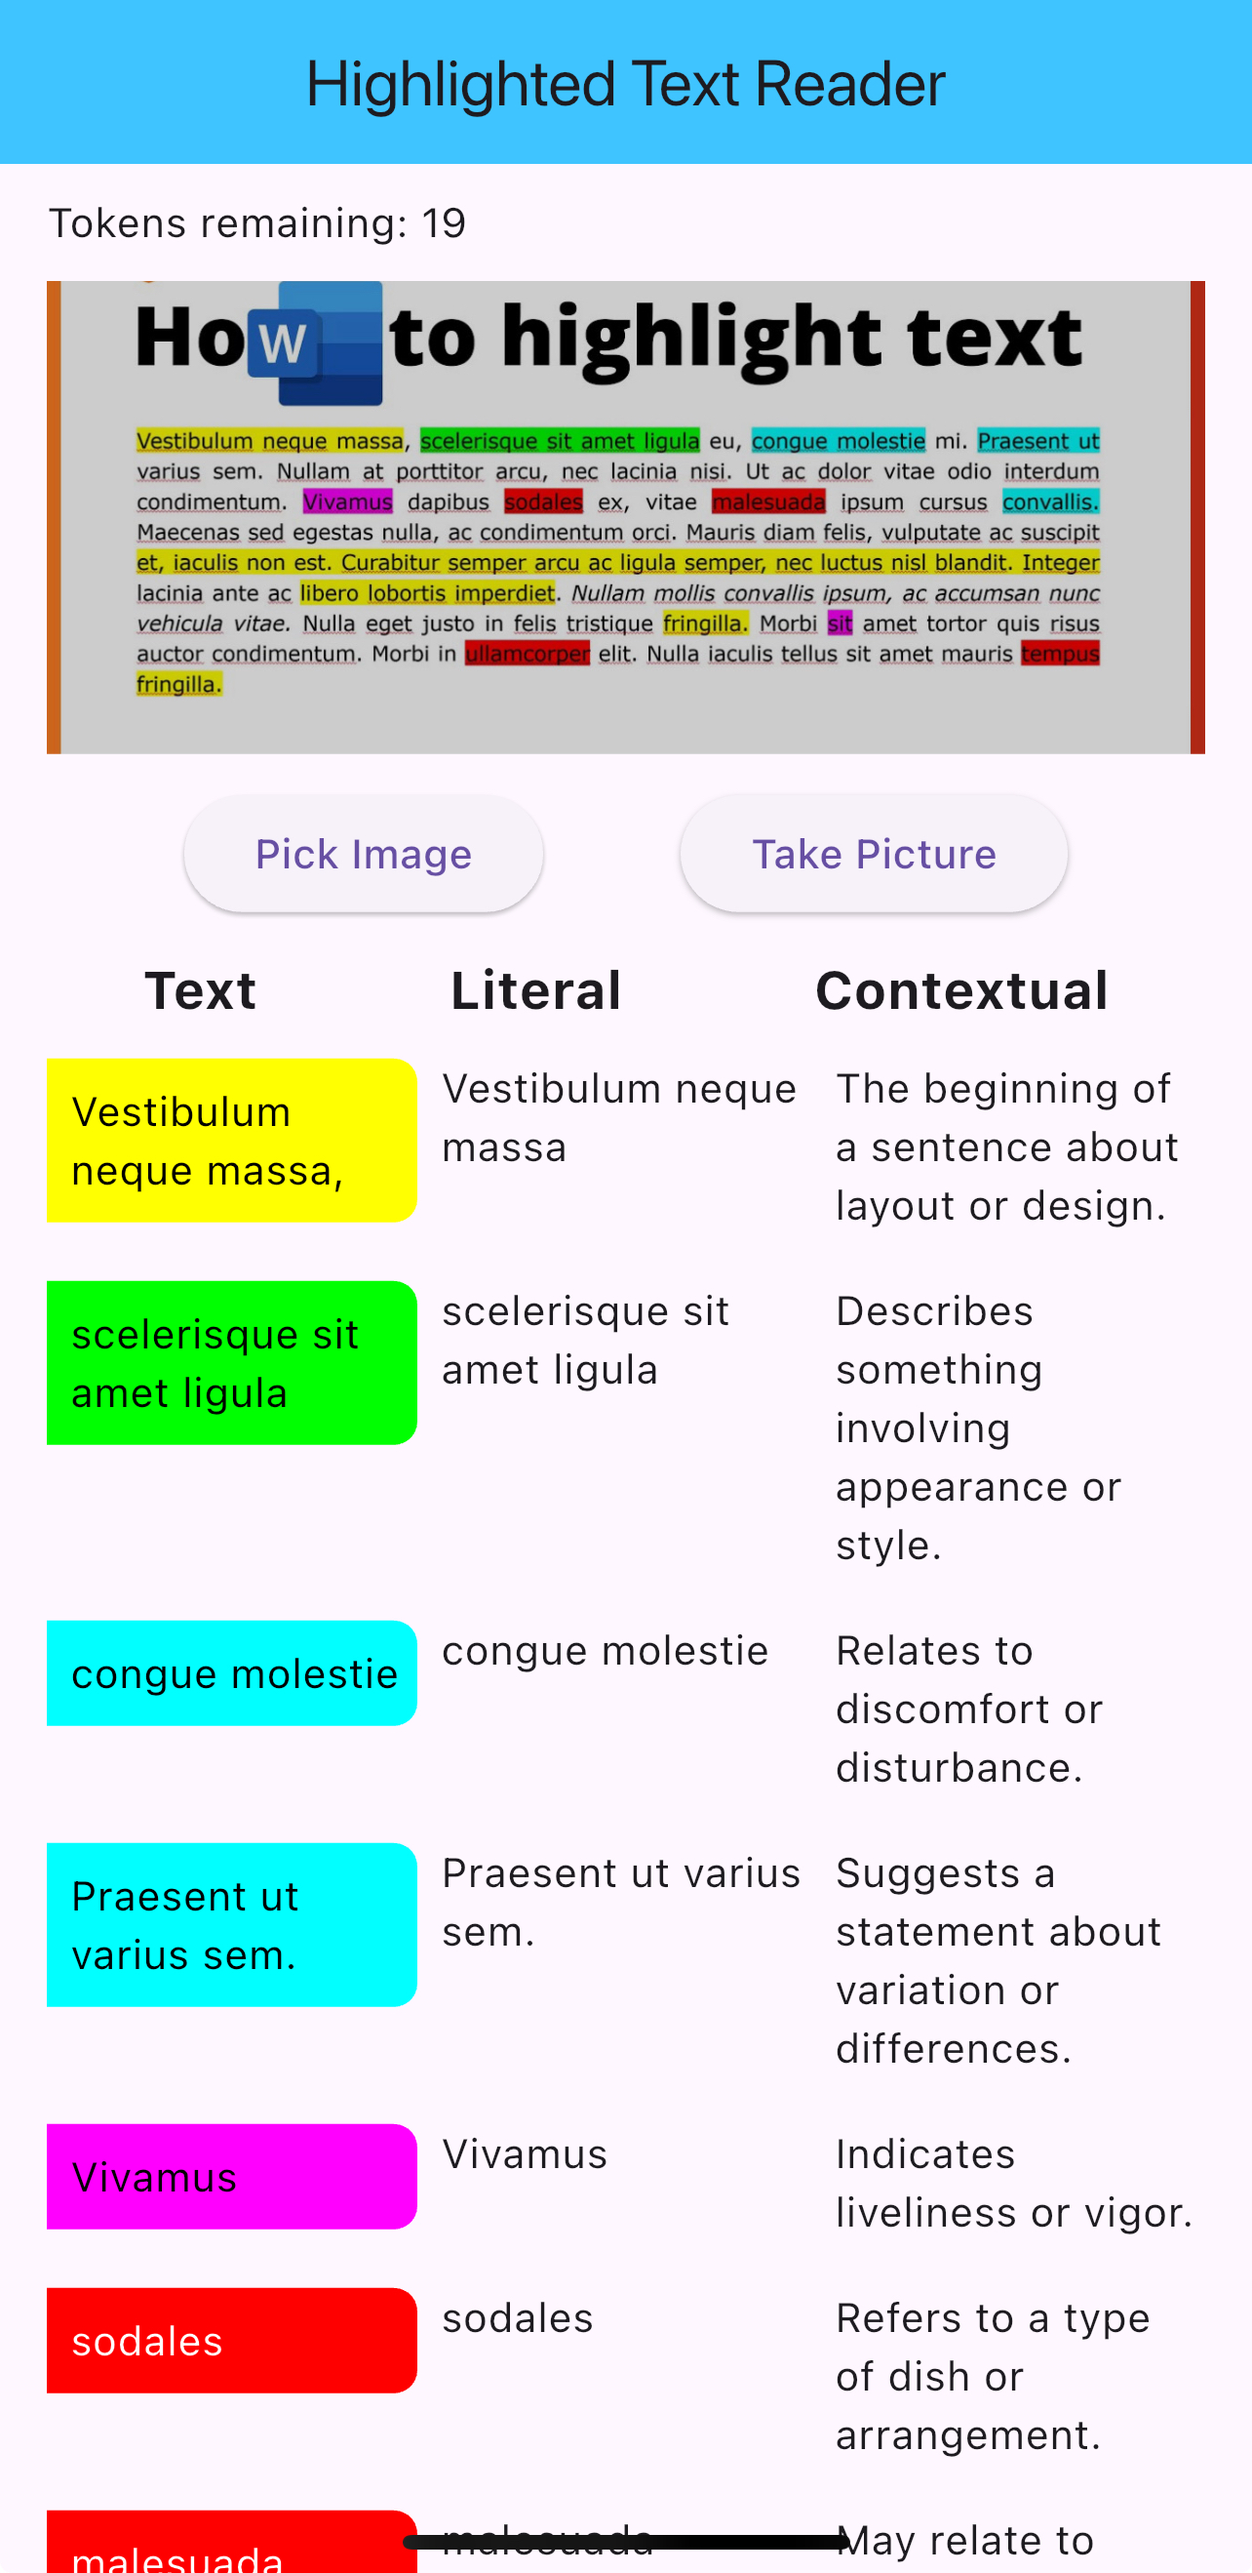
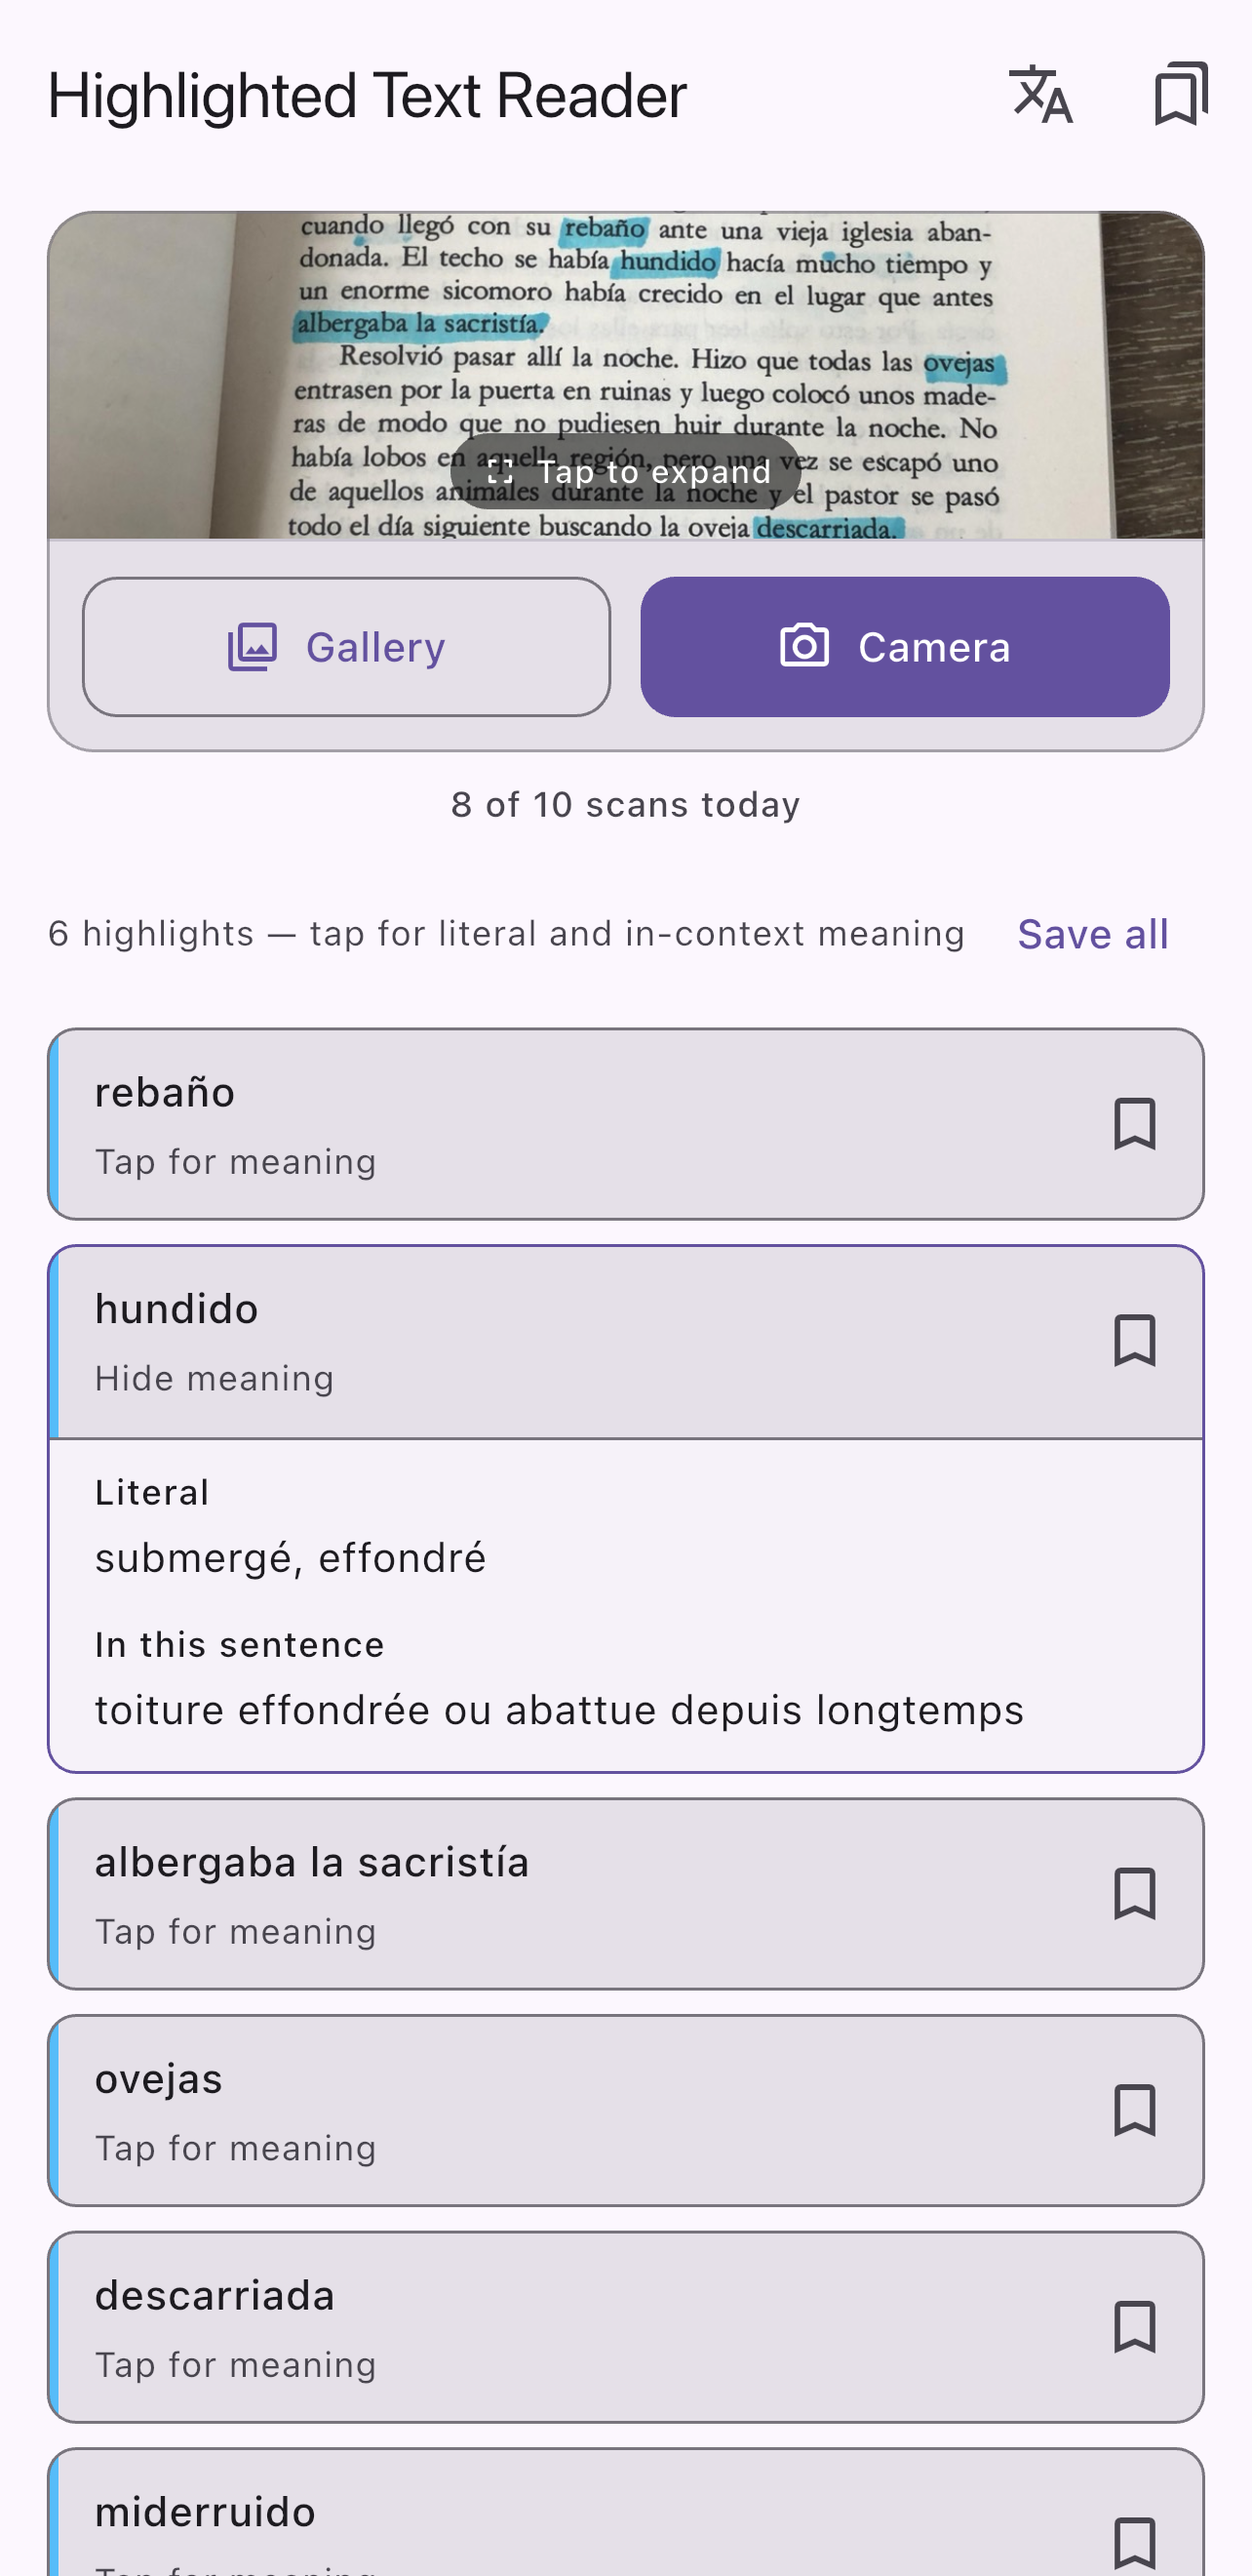
Persist onboarding completion and skip it on later launches.
Remember when a user finishes or skips onboarding so the intro does not appear every cold start.

diff --git a/test/app_router_test.dart b/test/app_router_test.dart
@@ -1,0 +1,113 @@
+import 'package:flutter/material.dart';
+import 'package:flutter_test/flutter_test.dart';
+import 'package:go_router/go_router.dart';
+import 'package:highlighted_text_reader/core/constants/app_constants.dart';
+import 'package:highlighted_text_reader/data/services/onboarding_store.dart';
+import 'package:highlighted_text_reader/main.dart';
+import 'package:shared_preferences/shared_preferences.dart';
+
+void main() {
+  late OnboardingStore store;
+
+  setUp(() {
+    SharedPreferences.setMockInitialValues({});
+    store = OnboardingStore();
+  });
+
+  GoRouter routerForTest({required bool onboardingCompleted}) {
+    return GoRouter(
+      initialLocation: onboardingCompleted
+          ? AppConstants.homeRoute
+          : AppConstants.onboardRoute,
+      redirect: (context, state) => redirectIfOnboardingCompleted(
+        matchedLocation: state.matchedLocation,
+        completedAtLaunch: onboardingCompleted,
+        store: store,
+      ),
+      routes: [
+        GoRoute(
+          path: AppConstants.onboardRoute,
+          builder: (context, state) => const Scaffold(body: Text('Onboarding')),
+        ),
+        GoRoute(
+          path: AppConstants.homeRoute,
+          builder: (context, state) => const Scaffold(body: Text('Home')),
+        ),
+      ],
+    );
+  }
+
+  test('does not redirect onboarding when it is still incomplete', () async {
+    expect(
+      await redirectIfOnboardingCompleted(
+        matchedLocation: AppConstants.onboardRoute,
+        completedAtLaunch: false,
+        store: store,
+      ),
+      isNull,
+    );
+  });
+
+  test('redirects onboarding to home when completed at launch', () async {
+    expect(
+      await redirectIfOnboardingCompleted(
+        matchedLocation: AppConstants.onboardRoute,
+        completedAtLaunch: true,
+        store: store,
+      ),
+      AppConstants.homeRoute,
+    );
+  });
+
+  test('redirects onboarding to home after the flag is written', () async {
+    await store.writeCompleted();
+
+    expect(
+      await redirectIfOnboardingCompleted(
+        matchedLocation: AppConstants.onboardRoute,
+        completedAtLaunch: false,
+        store: store,
+      ),
+      AppConstants.homeRoute,
+    );
+  });
+
+  test('does not redirect home', () async {
+    await store.writeCompleted();
+
+    expect(
+      await redirectIfOnboardingCompleted(
+        matchedLocation: AppConstants.homeRoute,
+        completedAtLaunch: true,
+        store: store,
+      ),
+      isNull,
+    );
+  });
+
+  testWidgets('starts on home when onboarding is already completed',
+      (tester) async {
+    await store.writeCompleted();
+    final router = routerForTest(onboardingCompleted: await store.read());
+
+    await tester.pumpWidget(MaterialApp.router(routerConfig: router));
+    await tester.pumpAndSettle();
+
+    expect(find.text('Home'), findsOneWidget);
+    expect(find.text('Onboarding'), findsNothing);
+  });
+
+  testWidgets('redirects /on-board to home after onboarding is completed',
+      (tester) async {
+    await store.writeCompleted();
+    final router = routerForTest(onboardingCompleted: true);
+
+    await tester.pumpWidget(MaterialApp.router(routerConfig: router));
+    await tester.pumpAndSettle();
+    router.go(AppConstants.onboardRoute);
+    await tester.pumpAndSettle();
+
+    expect(find.text('Home'), findsOneWidget);
+    expect(find.text('Onboarding'), findsNothing);
+  });
+}

diff --git a/lib/main.dart b/lib/main.dart
@@ -3,32 +3,71 @@ import 'package:go_router/go_router.dart';
 
 import 'core/constants/app_constants.dart';
 import 'core/firebase/firebase_bootstrap.dart';
+import 'data/services/onboarding_store.dart';
 import 'home_screen.dart';
 import 'presentation/pages/onboarding/onboarding_page.dart';
+import 'presentation/pages/saved/saved_highlights_page.dart';
 
 Future<void> main() async {
   WidgetsFlutterBinding.ensureInitialized();
   await FirebaseBootstrap.initialize();
-  runApp(const MyApp());
+  final onboardingStore = OnboardingStore();
+  final onboardingCompleted = await onboardingStore.read();
+  runApp(MyApp(
+    onboardingCompleted: onboardingCompleted,
+    onboardingStore: onboardingStore,
+  ));
+}
+
+Future<String?> redirectIfOnboardingCompleted({
+  required String matchedLocation,
+  required bool completedAtLaunch,
+  required OnboardingStore store,
+}) async {
+  if (matchedLocation != AppConstants.onboardRoute) {
+    return null;
+  }
+  if (completedAtLaunch || await store.read()) {
+    return AppConstants.homeRoute;
+  }
+  return null;
 }
 
 class MyApp extends StatelessWidget {
-  const MyApp({super.key});
+  MyApp({
+    super.key,
+    this.onboardingCompleted = false,
+    OnboardingStore? onboardingStore,
+  }) : onboardingStore = onboardingStore ?? OnboardingStore();
+
+  final bool onboardingCompleted;
+  final OnboardingStore onboardingStore;
 
   @override
   Widget build(BuildContext context) {
     final analyticsObserver = FirebaseBootstrap.analyticsObserver;
     final GoRouter router = GoRouter(
-      initialLocation: AppConstants.onboardRoute,
+      initialLocation: onboardingCompleted
+          ? AppConstants.homeRoute
+          : AppConstants.onboardRoute,
       observers: analyticsObserver == null ? [] : [analyticsObserver],
+      redirect: (context, state) => redirectIfOnboardingCompleted(
+        matchedLocation: state.matchedLocation,
+        completedAtLaunch: onboardingCompleted,
+        store: onboardingStore,
+      ),
       routes: [
         GoRoute(
           path: AppConstants.onboardRoute,
-          builder: (context, state) => const OnboardingPage(),
+          builder: (context, state) => OnboardingPage(store: onboardingStore),
         ),
         GoRoute(
           path: AppConstants.homeRoute,
           builder: (context, state) => const HomeScreen(),
+        ),
+        GoRoute(
+          path: AppConstants.savedRoute,
+          builder: (context, state) => const SavedHighlightsPage(),
         ),
       ],
     );

diff --git a/test/presentation/pages/onboarding/onboarding_page_test.dart b/test/presentation/pages/onboarding/onboarding_page_test.dart
@@ -1,0 +1,60 @@
+import 'package:flutter/material.dart';
+import 'package:flutter_test/flutter_test.dart';
+import 'package:go_router/go_router.dart';
+import 'package:highlighted_text_reader/core/constants/app_constants.dart';
+import 'package:highlighted_text_reader/data/services/onboarding_store.dart';
+import 'package:highlighted_text_reader/presentation/pages/onboarding/onboarding_page.dart';
+import 'package:shared_preferences/shared_preferences.dart';
+
+void main() {
+  late OnboardingStore store;
+
+  setUp(() {
+    SharedPreferences.setMockInitialValues({});
+    store = OnboardingStore();
+  });
+
+  Future<void> pumpOnboarding(WidgetTester tester) async {
+    final router = GoRouter(
+      initialLocation: AppConstants.onboardRoute,
+      routes: [
+        GoRoute(
+          path: AppConstants.onboardRoute,
+          builder: (context, state) => OnboardingPage(store: store),
+        ),
+        GoRoute(
+          path: AppConstants.homeRoute,
+          builder: (context, state) => const Scaffold(body: Text('Home')),
+        ),
+      ],
+    );
+
+    await tester.pumpWidget(MaterialApp.router(routerConfig: router));
+    await tester.pump();
+    await tester.pump(const Duration(milliseconds: 50));
+  }
+
+  testWidgets('Skip writes the completed flag and goes home', (tester) async {
+    await pumpOnboarding(tester);
+
+    await tester.tap(find.text('Skip'));
+    await tester.pumpAndSettle();
+
+    expect(await store.read(), isTrue);
+    expect(find.text('Home'), findsOneWidget);
+  });
+
+  testWidgets('Done writes the completed flag and goes home', (tester) async {
+    await pumpOnboarding(tester);
+
+    await tester.tap(find.byIcon(Icons.arrow_forward));
+    await tester.pumpAndSettle();
+    await tester.tap(find.byIcon(Icons.arrow_forward));
+    await tester.pumpAndSettle();
+    await tester.tap(find.text('Done'));
+    await tester.pumpAndSettle();
+
+    expect(await store.read(), isTrue);
+    expect(find.text('Home'), findsOneWidget);
+  });
+}

diff --git a/lib/presentation/pages/onboarding/onboarding_page.dart b/lib/presentation/pages/onboarding/onboarding_page.dart
@@ -6,9 +6,12 @@ import 'package:introduction_screen/introduction_screen.dart';
 import '../../../core/constants/app_constants.dart';
 import '../../../core/firebase/app_analytics.dart';
 import '../../../core/utils/ui_helpers.dart';
+import '../../../data/services/onboarding_store.dart';
 
 class OnboardingPage extends StatefulWidget {
-  const OnboardingPage({super.key});
+  const OnboardingPage({super.key, this.store});
+
+  final OnboardingStore? store;
 
   @override
   State<OnboardingPage> createState() => _OnboardingPageState();
@@ -16,6 +19,7 @@ class OnboardingPage extends StatefulWidget {
 
 class _OnboardingPageState extends State<OnboardingPage> {
   final _introKey = GlobalKey<IntroductionScreenState>();
+  late final OnboardingStore _store = widget.store ?? OnboardingStore();
 
   List<PageViewModel> get _pages => [
         PageViewModel(
@@ -76,12 +80,17 @@ class _OnboardingPageState extends State<OnboardingPage> {
       ];
 
   void _onDone() {
-    unawaited(AppAnalytics.logOnboardingFinished(method: 'done'));
-    context.go(AppConstants.homeRoute);
+    unawaited(_finish(method: 'done'));
   }
 
   void _onSkip() {
-    unawaited(AppAnalytics.logOnboardingFinished(method: 'skip'));
+    unawaited(_finish(method: 'skip'));
+  }
+
+  Future<void> _finish({required String method}) async {
+    unawaited(AppAnalytics.logOnboardingFinished(method: method));
+    await _store.writeCompleted();
+    if (!mounted) return;
     context.go(AppConstants.homeRoute);
   }
 

diff --git a/test/data/services/onboarding_store_test.dart b/test/data/services/onboarding_store_test.dart
@@ -1,0 +1,41 @@
+import 'package:flutter_test/flutter_test.dart';
+import 'package:highlighted_text_reader/data/services/onboarding_store.dart';
+import 'package:shared_preferences/shared_preferences.dart';
+
+void main() {
+  test('reads incomplete when nothing is saved', () async {
+    SharedPreferences.setMockInitialValues({});
+    final store = OnboardingStore();
+
+    expect(await store.read(), isFalse);
+  });
+
+  test('persists completion across store instances', () async {
+    SharedPreferences.setMockInitialValues({});
+    final store = OnboardingStore();
+
+    await store.writeCompleted();
+
+    expect(await store.read(), isTrue);
+    expect(await OnboardingStore().read(), isTrue);
+  });
+
+  test('treats an explicit false flag as incomplete', () async {
+    SharedPreferences.setMockInitialValues({
+      OnboardingStore.prefsKey: false,
+    });
+    final store = OnboardingStore();
+
+    expect(await store.read(), isFalse);
+  });
+
+  test('uses injected preferences', () async {
+    SharedPreferences.setMockInitialValues({});
+    final prefs = await SharedPreferences.getInstance();
+    final store = OnboardingStore(prefs: prefs);
+
+    await store.writeCompleted();
+
+    expect(prefs.getBool(OnboardingStore.prefsKey), isTrue);
+  });
+}

diff --git a/lib/data/services/onboarding_store.dart b/lib/data/services/onboarding_store.dart
@@ -1,0 +1,20 @@
+import 'package:shared_preferences/shared_preferences.dart';
+
+class OnboardingStore {
+  OnboardingStore({SharedPreferences? prefs}) : _prefs = prefs;
+
+  static const prefsKey = 'onboarding_completed';
+
+  SharedPreferences? _prefs;
+
+  Future<SharedPreferences> get _store async =>
+      _prefs ??= await SharedPreferences.getInstance();
+
+  Future<bool> read() async {
+    return (await _store).getBool(prefsKey) ?? false;
+  }
+
+  Future<void> writeCompleted() async {
+    await (await _store).setBool(prefsKey, true);
+  }
+}
